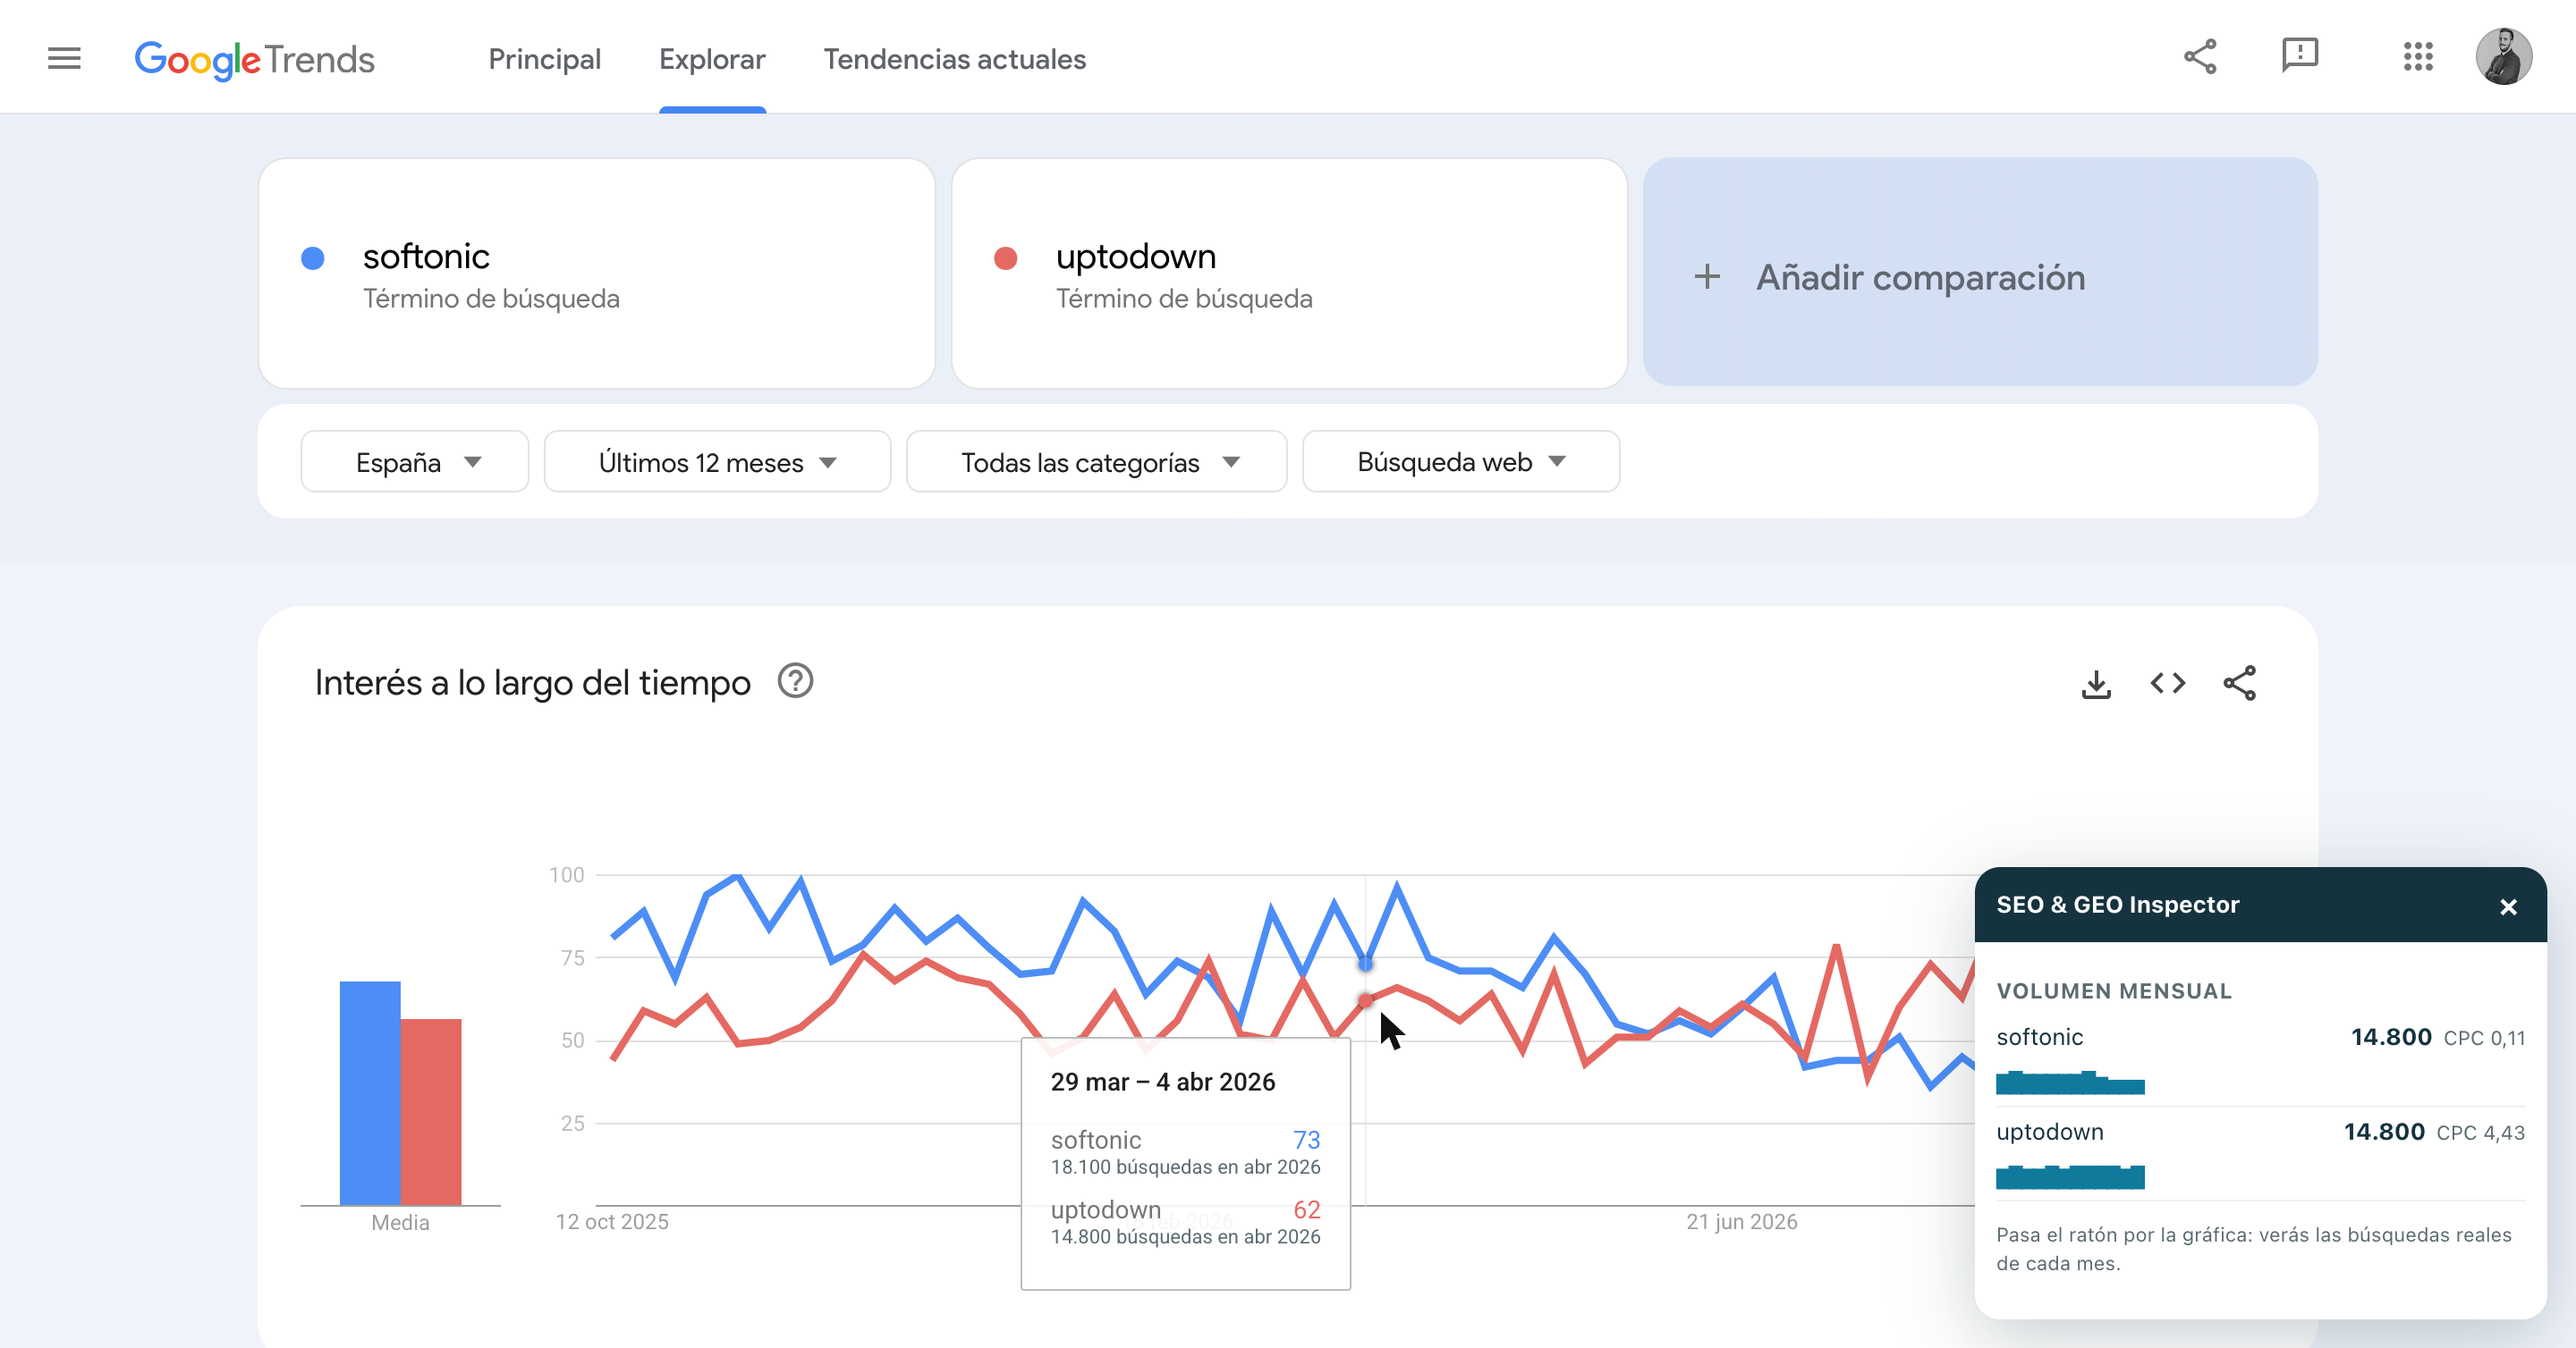
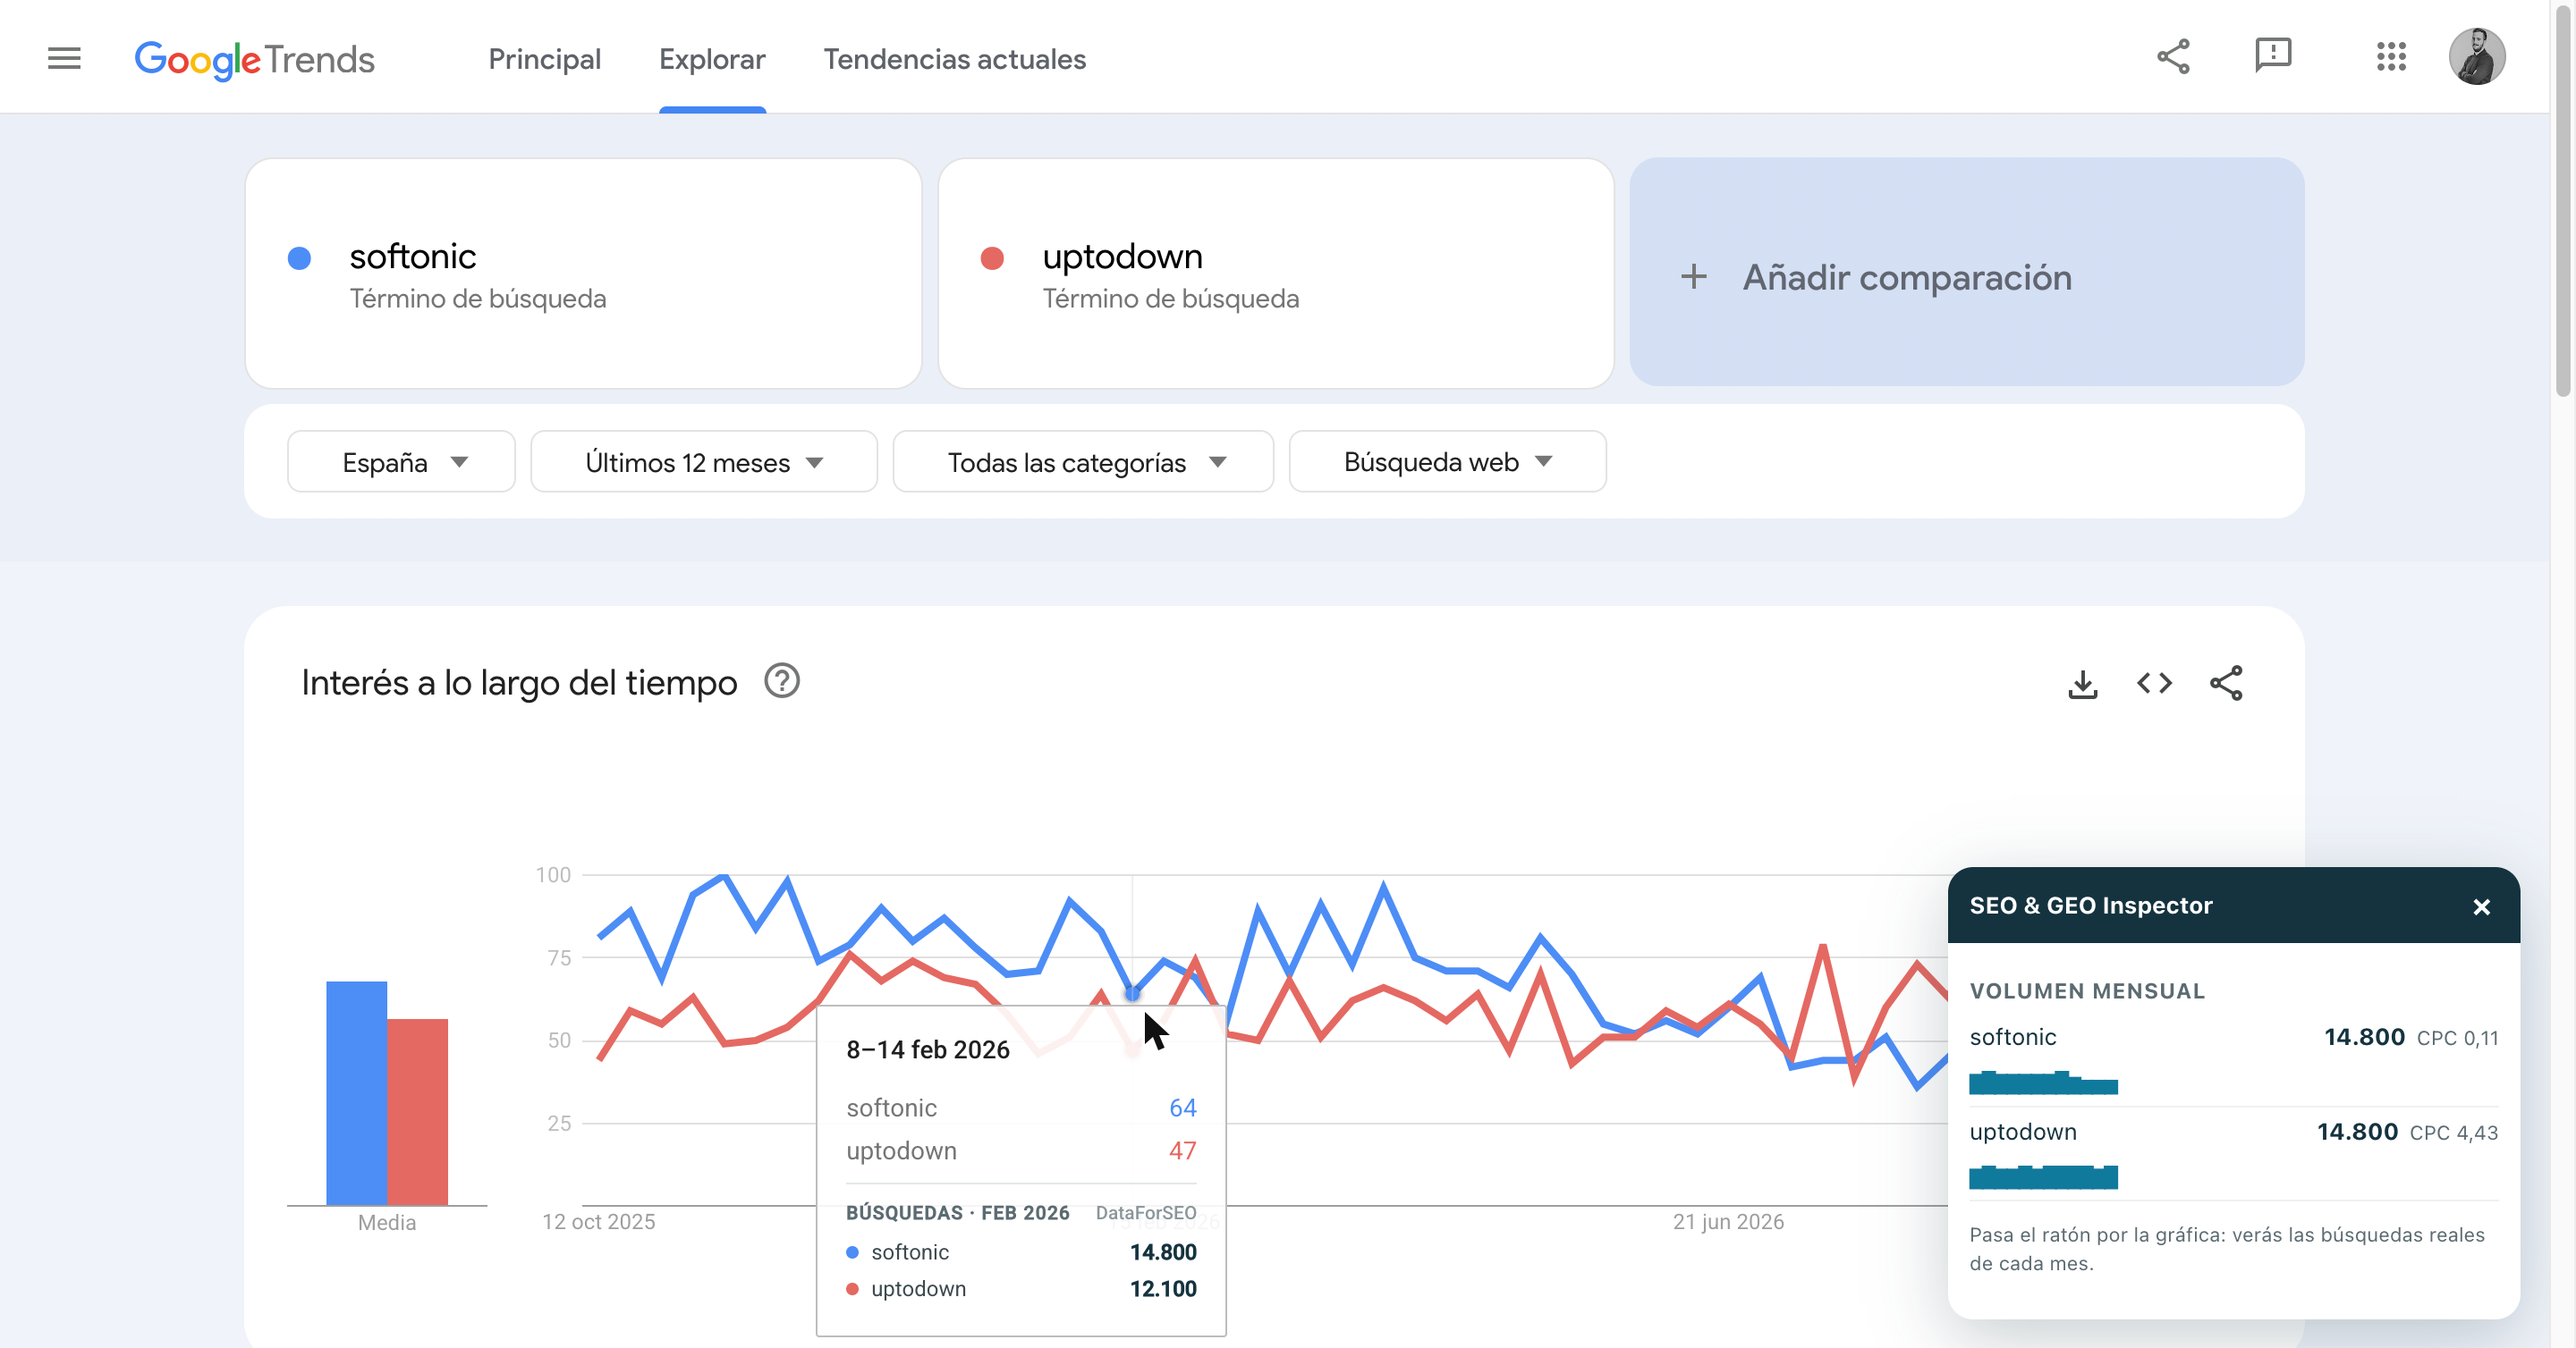
feat: extension landing Trends capture with the redesigned tooltip

diff --git a/src/data/extension.ts b/src/data/extension.ts
@@ -224,7 +224,7 @@ export const extensionLanding: Record<Lang, ExtensionLandingCopy> = {
         ],
         shots: [
           { shot: 'serp-volumenes', alt: 'Búsqueda de softonic en Google con el recuadro de la extensión: la entidad Softonic con su kgmid y el volumen de la búsqueda y de sus relacionadas', caption: 'softonic: 14.800 búsquedas al mes en España, y el volumen de cada búsqueda relacionada.', wide: true },
-          { shot: 'trends-volumenes', alt: 'Google Trends comparando softonic y uptodown: el tooltip de la semana del 29 de marzo añade 18.100 y 14.800 búsquedas en abril de 2026, y el recuadro de la extensión da el volumen mensual de cada término', caption: 'Trends enseña el interés de 0 a 100; la extensión añade cuántas búsquedas son, mes a mes, en el propio tooltip.', wide: true },
+          { shot: 'trends-volumenes', alt: 'Google Trends comparando softonic y uptodown: el tooltip de la semana del 8 al 14 de febrero añade 14.800 y 12.100 búsquedas en febrero de 2026, y el recuadro de la extensión da el volumen mensual de cada término', caption: 'Trends enseña el interés de 0 a 100; la extensión añade cuántas búsquedas son, mes a mes, en el propio tooltip.', wide: true },
         ],
       },
       {
@@ -380,7 +380,7 @@ export const extensionLanding: Record<Lang, ExtensionLandingCopy> = {
         ],
         shots: [
           { shot: 'serp-volumenes', alt: 'Google search for softonic with the extension box: the Softonic entity with its kgmid and the volume of the search and its related searches', caption: 'softonic: 14,800 searches a month in Spain, plus the volume of every related search.', wide: true },
-          { shot: 'trends-volumenes', alt: 'Google Trends comparing softonic and uptodown: the tooltip for the week of March 29 adds 18,100 and 14,800 searches in April 2026, and the extension box shows each term’s monthly volume', caption: 'Trends shows interest from 0 to 100; the extension adds how many searches that is, month by month, right in the tooltip.', wide: true },
+          { shot: 'trends-volumenes', alt: 'Google Trends comparing softonic and uptodown: the tooltip for the week of February 22–28 adds 14,800 and 12,100 searches in February 2026, and the extension box shows each term’s monthly volume', caption: 'Trends shows interest from 0 to 100; the extension adds how many searches that is, month by month, right in the tooltip.', wide: true },
         ],
       },
       {
